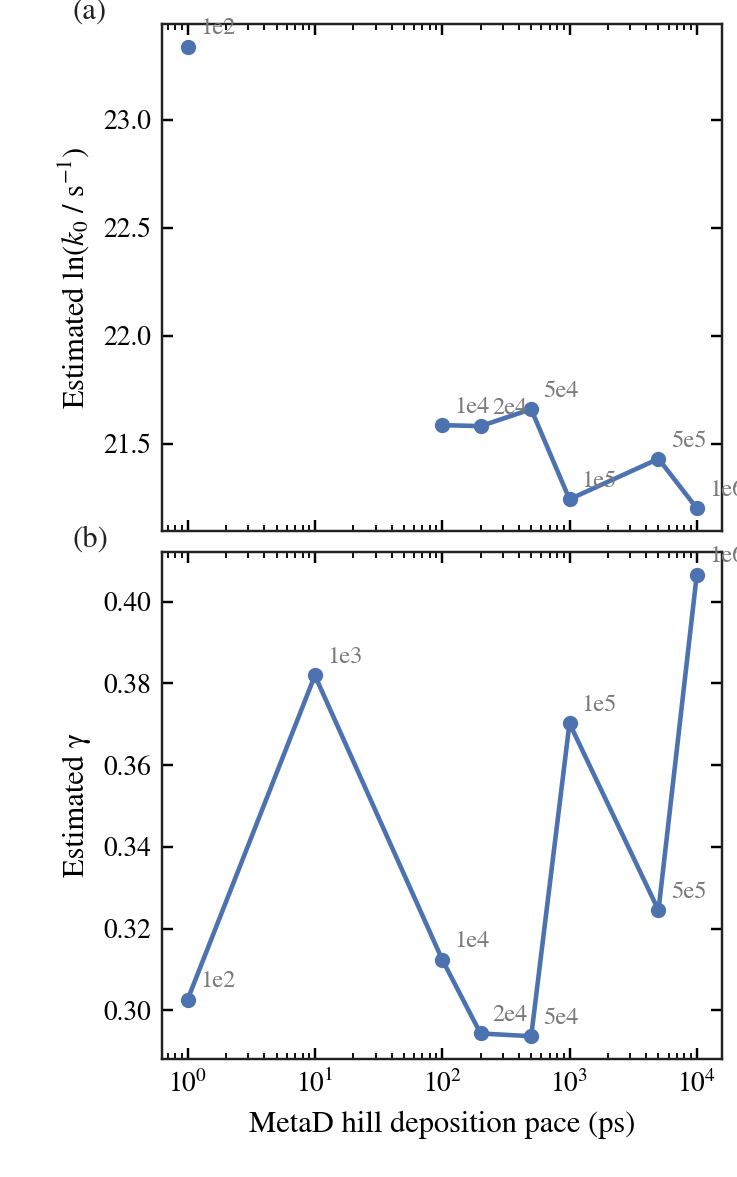
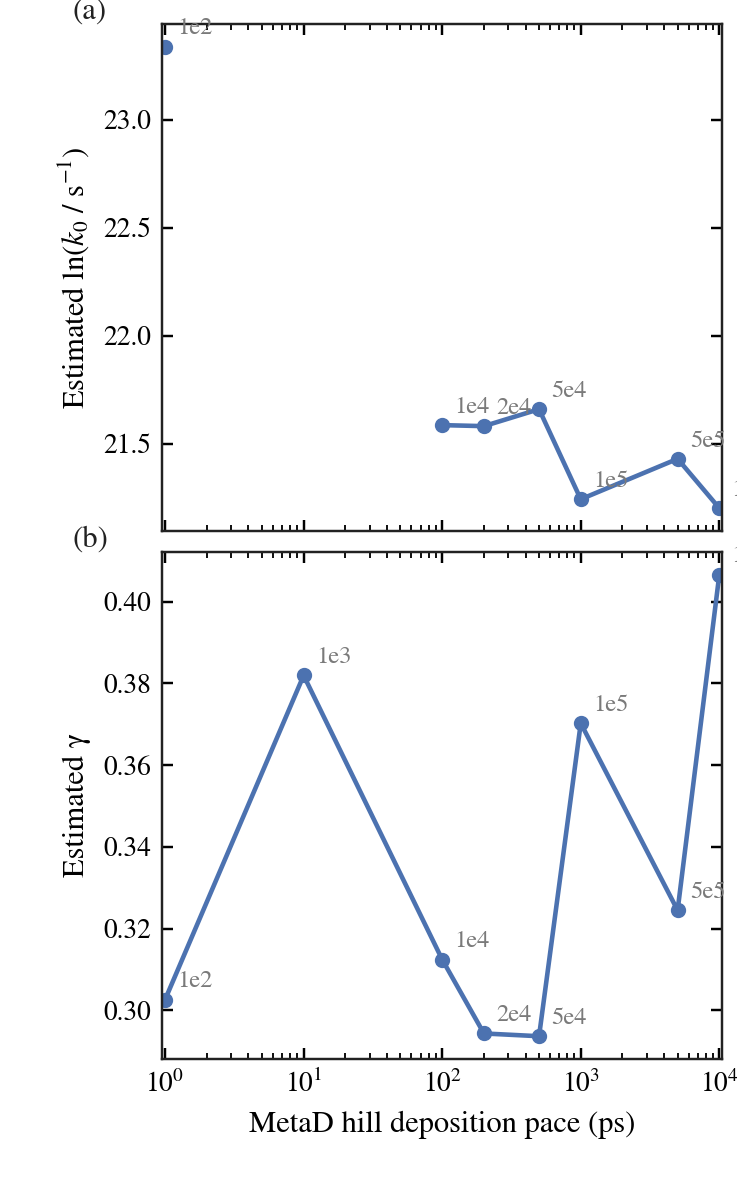
Fix regular-series pace axis handling

diff --git a/eatr_rates/plot_results.py b/eatr_rates/plot_results.py
@@ -3,6 +3,7 @@ from __future__ import annotations
 import argparse
 import json
 from pathlib import Path
+import re
 
 import numpy as np
 from eatr_rates.plot_style import (
@@ -45,7 +46,7 @@ def build_parser() -> argparse.ArgumentParser:
 
     regular = subparsers.add_parser("regular-series", help="plot a regular-analysis series from multiple JSON outputs")
     regular.add_argument("-i", "--input", nargs="+", required=True, help="JSON outputs from eatr-analysis")
-    regular.add_argument("--xvalues", nargs="+", type=float, required=True, help="x-axis values corresponding to the input JSON files")
+    regular.add_argument("--xvalues", nargs="+", type=float, default=None, help="x-axis values corresponding to the input JSON files; if omitted, infer pace values from filenames like pace_100ps.json")
     regular.add_argument("--labels", nargs="+", default=None, help="optional point labels matching the input JSON files")
     regular.add_argument("--xlabel", type=str, default="Condition", help="x-axis label")
     regular.add_argument("--xscale", choices=["linear", "log"], default="log", help="x-axis scaling")
@@ -80,14 +81,43 @@ def extract_uncertainty(payload: dict[str, object], key: str):
     return None
 
 
+PACE_PATTERN = re.compile(r"pace[_-]?([0-9]+(?:\.[0-9]+)?)ps$", re.IGNORECASE)
+
+
+def autodetect_xvalues(paths: list[str]) -> np.ndarray:
+    values = []
+    for path in paths:
+        match = PACE_PATTERN.search(Path(path).stem)
+        if match is None:
+            raise SystemExit(
+                "Could not infer x values from input filenames. "
+                "Use --xvalues explicitly or name files like pace_100ps.json."
+            )
+        values.append(float(match.group(1)))
+    return np.array(values, dtype=float)
+
+
+def apply_xlimits(axis, xvalues: np.ndarray, xscale: str) -> None:
+    xmin = float(np.min(xvalues))
+    xmax = float(np.max(xvalues))
+    if xscale == "log":
+        if xmin <= 0.0:
+            raise SystemExit("Log-scaled plots require strictly positive x values.")
+        axis.set_xlim(xmin / 1.05, xmax * 1.05)
+        return
+    span = xmax - xmin
+    pad = 0.05 * span if span > 0.0 else max(0.05 * abs(xmin), 0.5)
+    axis.set_xlim(xmin - pad, xmax + pad)
+
+
 def plot_regular_series(args: argparse.Namespace) -> int:
-    if len(args.input) != len(args.xvalues):
+    if args.xvalues is not None and len(args.input) != len(args.xvalues):
         raise SystemExit("The number of --input files must match the number of --xvalues.")
     if args.labels is not None and len(args.labels) != len(args.input):
         raise SystemExit("If provided, --labels must match the number of --input files.")
 
     payloads = [load_json(path) for path in args.input]
-    xvalues = np.array(args.xvalues, dtype=float)
+    xvalues = autodetect_xvalues(args.input) if args.xvalues is None else np.array(args.xvalues, dtype=float)
     labels = args.labels if args.labels is not None else [Path(path).stem for path in args.input]
 
     if args.method == "eatr-comparison":
@@ -145,6 +175,7 @@ def plot_regular_series(args: argparse.Namespace) -> int:
     for label, xval, yval in zip(labels, xvalues, log_values):
         axes[0].annotate(label, (xval, yval), textcoords="offset points", xytext=(4, 4), fontsize=8, color=GRAY)
     axes[0].set_xscale(args.xscale)
+    apply_xlimits(axes[0], xvalues, args.xscale)
     axes[0].set_ylabel(r"Estimated ln($k_0$ / s$^{-1}$)")
     if ncols == 1:
         axes[0].set_xlabel(args.xlabel)
@@ -161,6 +192,7 @@ def plot_regular_series(args: argparse.Namespace) -> int:
         for label, xval, yval in zip(labels, xvalues, gamma_values):
             axes[1].annotate(label, (xval, yval), textcoords="offset points", xytext=(4, 4), fontsize=8, color=GRAY)
         axes[1].set_xscale(args.xscale)
+        apply_xlimits(axes[1], xvalues, args.xscale)
         axes[1].set_xlabel(args.xlabel)
         axes[1].set_ylabel("Estimated γ")
         style_axes(axes)
@@ -191,6 +223,7 @@ def plot_eatr_comparison(payloads, xvalues, labels, xlabel: str, xscale: str, ou
     )
     axes[0].plot(xvalues, cdf_ln_k, marker="s", color=ORANGE, label="EATR CDF")
     axes[0].set_xscale(xscale)
+    apply_xlimits(axes[0], xvalues, xscale)
     axes[0].set_ylabel(r"Estimated ln($k_0$ / s$^{-1}$)")
     axes[0].legend(loc="best", handlelength=1.5)
     for label, xval, yval in zip(labels, xvalues, mle_ln_k):
@@ -202,6 +235,7 @@ def plot_eatr_comparison(payloads, xvalues, labels, xlabel: str, xscale: str, ou
     )
     axes[1].plot(xvalues, cdf_gamma, marker="s", color=ORANGE, label="EATR CDF")
     axes[1].set_xscale(xscale)
+    apply_xlimits(axes[1], xvalues, xscale)
     axes[1].set_xlabel(xlabel)
     axes[1].set_ylabel("Estimated γ")
     axes[1].legend(loc="best", handlelength=1.5)